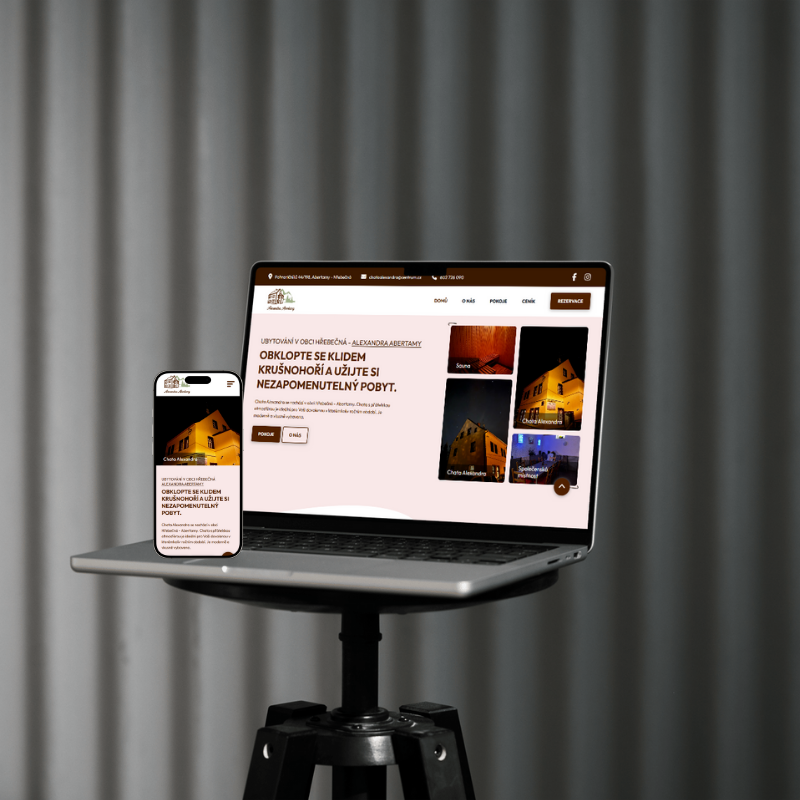
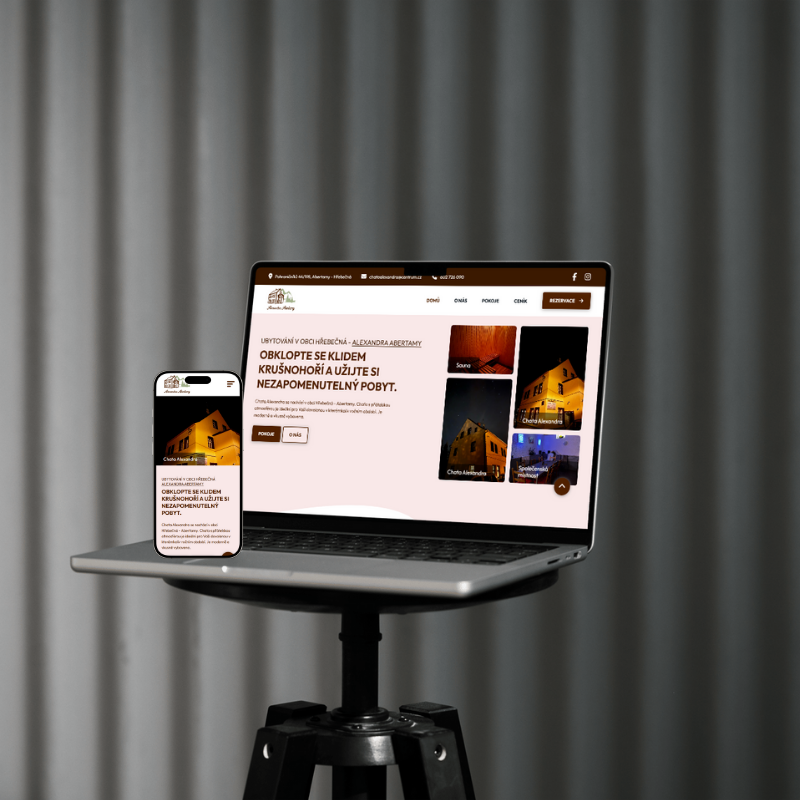
hotovo!!!

diff --git a/src/pages/index.html b/src/pages/index.html
@@ -73,16 +73,16 @@
                         </button>
                     </div>
                     <menu class="navbar-menu hamburger-nav hamburger-zone">
-                        <li class="navbar-menu-item navbar-menu-item-underline navbar-menu-item-underline-primary-color"><a class="navbar-menu-item-href navbar-menu-item-href-primary" href="#">Domů</a></li>
+                        <li class="navbar-menu-item navbar-menu-item-underline navbar-menu-item-underline-primary-color"><a class="navbar-menu-item-href navbar-menu-item-href-primary-color" href="#">Domů</a></li>
                         <li class="navbar-menu-item navbar-menu-item-underline"><a class="navbar-menu-item-href" href="#about-us">O nás</a></li>
                         <li class="navbar-menu-item navbar-menu-item-underline"><a class="navbar-menu-item-href" href="#rooms">Pokoje</a></li>
                         <li class="navbar-menu-item navbar-menu-item-underline"><a class="navbar-menu-item-href" href="#price-list">Ceník</a></li>
                         <li class="navbar-menu-item navbar-menu-item-reservation"><a class="navbar-menu-item-href button button-icon button-icon--arrow-right" href="#contact">Rezervace</a></li>
                         <li class="navbar-menu-item navbar-menu-item-no-desktop navbar-menu-item-location"><a class="navbar-menu-item-href navbar-menu-item-href-no-desktop" href="https://maps.app.goo.gl/YLNK6yYfZ5aMsEiY9">Pohraničníků 44/198, Abertamy - Hřebečná</a></li>
-                        <li class="navbar-menu-item navbar-menu-item-no-desktop navbar-menu-item-email"><a class="navbar-menu-item-href navbar-menu-item-href-no-desktop" href="mailto:chataalexandra@centrum.cz">chataalexandra@centrum.cz</a></li>
-                        <li class="navbar-menu-item navbar-menu-item-no-desktop navbar-menu-item-phone"><a class="navbar-menu-item-href navbar-menu-item-href-no-desktop" href="tel:+420602726090">602 726 090</a></li>
-                        <li class="navbar-menu-item navbar-menu-item-no-desktop navbar-menu-item-social navbar-menu-item-facebook"><a href="https://www.facebook.com/share/15izFVYbRi/?mibextid=wwXIfr" target="_blank" aria-label="Facebook"><svg class="svg-responsive" xmlns="http://www.w3.org/2000/svg" viewBox="0 0 640 640"><path d="M240 363.3L240 576L356 576L356 363.3L442.5 363.3L460.5 265.5L356 265.5L356 230.9C356 179.2 376.3 159.4 428.7 159.4C445 159.4 458.1 159.8 465.7 160.6L465.7 71.9C451.4 68 416.4 64 396.2 64C289.3 64 240 114.5 240 223.4L240 265.5L174 265.5L174 363.3L240 363.3z" fill="#512100"/></svg></a></li>
-                        <li class="navbar-menu-item navbar-menu-item-no-desktop navbar-menu-item-social navbar-menu-item-instagram"><a href="#" aria-label="Instagram"><svg class="svg-responsive" xmlns="http://www.w3.org/2000/svg" viewBox="0 0 640 640"><path d="M320.3 205C256.8 204.8 205.2 256.2 205 319.7C204.8 383.2 256.2 434.8 319.7 435C383.2 435.2 434.8 383.8 435 320.3C435.2 256.8 383.8 205.2 320.3 205zM319.7 245.4C360.9 245.2 394.4 278.5 394.6 319.7C394.8 360.9 361.5 394.4 320.3 394.6C279.1 394.8 245.6 361.5 245.4 320.3C245.2 279.1 278.5 245.6 319.7 245.4zM413.1 200.3C413.1 185.5 425.1 173.5 439.9 173.5C454.7 173.5 466.7 185.5 466.7 200.3C466.7 215.1 454.7 227.1 439.9 227.1C425.1 227.1 413.1 215.1 413.1 200.3zM542.8 227.5C541.1 191.6 532.9 159.8 506.6 133.6C480.4 107.4 448.6 99.2 412.7 97.4C375.7 95.3 264.8 95.3 227.8 97.4C192 99.1 160.2 107.3 133.9 133.5C107.6 159.7 99.5 191.5 97.7 227.4C95.6 264.4 95.6 375.3 97.7 412.3C99.4 448.2 107.6 480 133.9 506.2C160.2 532.4 191.9 540.6 227.8 542.4C264.8 544.5 375.7 544.5 412.7 542.4C448.6 540.7 480.4 532.5 506.6 506.2C532.8 480 541 448.2 542.8 412.3C544.9 375.3 544.9 264.5 542.8 227.5zM495 452C487.2 471.6 472.1 486.7 452.4 494.6C422.9 506.3 352.9 503.6 320.3 503.6C287.7 503.6 217.6 506.2 188.2 494.6C168.6 486.8 153.5 471.7 145.6 452C133.9 422.5 136.6 352.5 136.6 319.9C136.6 287.3 134 217.2 145.6 187.8C153.4 168.2 168.5 153.1 188.2 145.2C217.7 133.5 287.7 136.2 320.3 136.2C352.9 136.2 423 133.6 452.4 145.2C472 153 487.1 168.1 495 187.8C506.7 217.3 504 287.3 504 319.9C504 352.5 506.7 422.6 495 452z" fill="#512100"/></svg></a></li>
+                        <li class="navbar-menu-item navbar-menu-item-no-desktop"><a class="navbar-menu-item-href navbar-menu-item-href-no-desktop" href="mailto:chataalexandra@centrum.cz">chataalexandra@centrum.cz</a></li>
+                        <li class="navbar-menu-item navbar-menu-item-no-desktop"><a class="navbar-menu-item-href navbar-menu-item-href-no-desktop" href="tel:+420602726090">602 726 090</a></li>
+                        <li class="navbar-menu-item navbar-menu-item-no-desktop navbar-menu-item-social navbar-menu-item-facebook"><a href="https://www.facebook.com/share/15izFVYbRi/?mibextid=wwXIfr" target="_blank" aria-label="Facebook"><svg class="svg-responsive" xmlns="http://www.w3.org/2000/svg" viewBox="0 0 640 640"><path d="M240 363.3L240 576L356 576L356 363.3L442.5 363.3L460.5 265.5L356 265.5L356 230.9C356 179.2 376.3 159.4 428.7 159.4C445 159.4 458.1 159.8 465.7 160.6L465.7 71.9C451.4 68 416.4 64 396.2 64C289.3 64 240 114.5 240 223.4L240 265.5L174 265.5L174 363.3L240 363.3z" fill="#010B13"/></svg></a></li>
+                        <li class="navbar-menu-item navbar-menu-item-no-desktop navbar-menu-item-social navbar-menu-item-instagram"><a href="#" aria-label="Instagram"><svg class="svg-responsive" xmlns="http://www.w3.org/2000/svg" viewBox="0 0 640 640"><path d="M320.3 205C256.8 204.8 205.2 256.2 205 319.7C204.8 383.2 256.2 434.8 319.7 435C383.2 435.2 434.8 383.8 435 320.3C435.2 256.8 383.8 205.2 320.3 205zM319.7 245.4C360.9 245.2 394.4 278.5 394.6 319.7C394.8 360.9 361.5 394.4 320.3 394.6C279.1 394.8 245.6 361.5 245.4 320.3C245.2 279.1 278.5 245.6 319.7 245.4zM413.1 200.3C413.1 185.5 425.1 173.5 439.9 173.5C454.7 173.5 466.7 185.5 466.7 200.3C466.7 215.1 454.7 227.1 439.9 227.1C425.1 227.1 413.1 215.1 413.1 200.3zM542.8 227.5C541.1 191.6 532.9 159.8 506.6 133.6C480.4 107.4 448.6 99.2 412.7 97.4C375.7 95.3 264.8 95.3 227.8 97.4C192 99.1 160.2 107.3 133.9 133.5C107.6 159.7 99.5 191.5 97.7 227.4C95.6 264.4 95.6 375.3 97.7 412.3C99.4 448.2 107.6 480 133.9 506.2C160.2 532.4 191.9 540.6 227.8 542.4C264.8 544.5 375.7 544.5 412.7 542.4C448.6 540.7 480.4 532.5 506.6 506.2C532.8 480 541 448.2 542.8 412.3C544.9 375.3 544.9 264.5 542.8 227.5zM495 452C487.2 471.6 472.1 486.7 452.4 494.6C422.9 506.3 352.9 503.6 320.3 503.6C287.7 503.6 217.6 506.2 188.2 494.6C168.6 486.8 153.5 471.7 145.6 452C133.9 422.5 136.6 352.5 136.6 319.9C136.6 287.3 134 217.2 145.6 187.8C153.4 168.2 168.5 153.1 188.2 145.2C217.7 133.5 287.7 136.2 320.3 136.2C352.9 136.2 423 133.6 452.4 145.2C472 153 487.1 168.1 495 187.8C506.7 217.3 504 287.3 504 319.9C504 352.5 506.7 422.6 495 452z" fill="#010B13"/></svg></a></li>
                     </menu>
                 </nav>
             </header>

diff --git a/src/pages/privacy-policy.html b/src/pages/privacy-policy.html
@@ -75,8 +75,8 @@
                         <li class="navbar-menu-item navbar-menu-item-underline"><a class="navbar-menu-item-href" href="index.html#price-list">Ceník</a></li>
                         <li class="navbar-menu-item navbar-menu-item-reservation"><a class="navbar-menu-item-href button button-icon button-icon--arrow-right" href="index.html#contact">Rezervace</a></li>
                         <li class="navbar-menu-item navbar-menu-item-no-desktop navbar-menu-item-location"><a class="navbar-menu-item-href navbar-menu-item-href-no-desktop" href="https://maps.app.goo.gl/YLNK6yYfZ5aMsEiY9">Pohraničníků 44/198, Abertamy - Hřebečná</a></li>
-                        <li class="navbar-menu-item navbar-menu-item-no-desktop navbar-menu-item-email"><a class="navbar-menu-item-href navbar-menu-item-href-no-desktop" href="mailto:chataalexandra@centrum.cz">chataalexandra@centrum.cz</a></li>
-                        <li class="navbar-menu-item navbar-menu-item-no-desktop navbar-menu-item-phone"><a class="navbar-menu-item-href navbar-menu-item-href-no-desktop" href="tel:+420602726090">602 726 090</a></li>
+                        <li class="navbar-menu-item navbar-menu-item-no-desktop"><a class="navbar-menu-item-href navbar-menu-item-href-no-desktop" href="mailto:chataalexandra@centrum.cz">chataalexandra@centrum.cz</a></li>
+                        <li class="navbar-menu-item navbar-menu-item-no-desktop"><a class="navbar-menu-item-href navbar-menu-item-href-no-desktop" href="tel:+420602726090">602 726 090</a></li>
                         <li class="navbar-menu-item navbar-menu-item-no-desktop navbar-menu-item-social navbar-menu-item-facebook"><a href="https://www.facebook.com/share/15izFVYbRi/?mibextid=wwXIfr" target="_blank" aria-label="Facebook"><svg class="svg-responsive" xmlns="http://www.w3.org/2000/svg" viewBox="0 0 640 640"><path d="M240 363.3L240 576L356 576L356 363.3L442.5 363.3L460.5 265.5L356 265.5L356 230.9C356 179.2 376.3 159.4 428.7 159.4C445 159.4 458.1 159.8 465.7 160.6L465.7 71.9C451.4 68 416.4 64 396.2 64C289.3 64 240 114.5 240 223.4L240 265.5L174 265.5L174 363.3L240 363.3z" fill="#512100"/></svg></a></li>
                         <li class="navbar-menu-item navbar-menu-item-no-desktop navbar-menu-item-social navbar-menu-item-instagram"><a href="#" aria-label="Instagram"><svg class="svg-responsive" xmlns="http://www.w3.org/2000/svg" viewBox="0 0 640 640"><path d="M320.3 205C256.8 204.8 205.2 256.2 205 319.7C204.8 383.2 256.2 434.8 319.7 435C383.2 435.2 434.8 383.8 435 320.3C435.2 256.8 383.8 205.2 320.3 205zM319.7 245.4C360.9 245.2 394.4 278.5 394.6 319.7C394.8 360.9 361.5 394.4 320.3 394.6C279.1 394.8 245.6 361.5 245.4 320.3C245.2 279.1 278.5 245.6 319.7 245.4zM413.1 200.3C413.1 185.5 425.1 173.5 439.9 173.5C454.7 173.5 466.7 185.5 466.7 200.3C466.7 215.1 454.7 227.1 439.9 227.1C425.1 227.1 413.1 215.1 413.1 200.3zM542.8 227.5C541.1 191.6 532.9 159.8 506.6 133.6C480.4 107.4 448.6 99.2 412.7 97.4C375.7 95.3 264.8 95.3 227.8 97.4C192 99.1 160.2 107.3 133.9 133.5C107.6 159.7 99.5 191.5 97.7 227.4C95.6 264.4 95.6 375.3 97.7 412.3C99.4 448.2 107.6 480 133.9 506.2C160.2 532.4 191.9 540.6 227.8 542.4C264.8 544.5 375.7 544.5 412.7 542.4C448.6 540.7 480.4 532.5 506.6 506.2C532.8 480 541 448.2 542.8 412.3C544.9 375.3 544.9 264.5 542.8 227.5zM495 452C487.2 471.6 472.1 486.7 452.4 494.6C422.9 506.3 352.9 503.6 320.3 503.6C287.7 503.6 217.6 506.2 188.2 494.6C168.6 486.8 153.5 471.7 145.6 452C133.9 422.5 136.6 352.5 136.6 319.9C136.6 287.3 134 217.2 145.6 187.8C153.4 168.2 168.5 153.1 188.2 145.2C217.7 133.5 287.7 136.2 320.3 136.2C352.9 136.2 423 133.6 452.4 145.2C472 153 487.1 168.1 495 187.8C506.7 217.3 504 287.3 504 319.9C504 352.5 506.7 422.6 495 452z" fill="#512100"/></svg></a></li>
                     </menu>

diff --git a/src/styles/layout.css b/src/styles/layout.css
@@ -140,11 +140,14 @@
 
 .navbar-menu {
     position: fixed;
+    top: 0;
+    bottom: 0;
+    left: 0;
+    width: 100%;
     display: grid;
     justify-items: center;
     align-content: end;
     grid-template-columns: repeat(2, 1fr);
-    grid-template-rows: repeat(11, minmax(auto, 35px));
     list-style: none;
     gap: 1.5rem;
 }
@@ -191,21 +194,20 @@
 .navbar-menu-item-href {
     text-decoration: none;
     font-size: 1.5rem;
-    color: var(--primary, #512100);
+    color: var(--black, #010B13);
     text-transform: uppercase;
     font-weight: 700;
     padding: 1rem;
 }
 
+.navbar-menu-item-href-primary-color {
+    color: var(--primary, #512100);
+}
+
 @media screen and (min-width: 961px) {
     .navbar-menu-item-href {
-        color: var(--black, #010B13);
         font-size: 1rem;
         padding: 0;
-    }
-
-    .navbar-menu-item-href-primary {
-        color: var(--primary, #512100);
     }
 
     .navbar-menu-item-reservation {
@@ -229,30 +231,11 @@
     font-size: 1.25rem;
     text-decoration: underline;
     text-underline-offset: 3px;
-    text-decoration-color: rgba(81, 33, 0, 0.75);
-}
-
-.navbar-menu-item-location {
-    grid-row: 7;
-    margin-bottom: 3.5rem;
-}
-
-@media screen and (min-width: 411px) {
-    .navbar-menu-item-location {
-        margin-bottom: 0;
-    }
+    text-decoration-color: rgba(1, 11, 19, 0.75);
 }
 
 .navbar-menu-item-location::first-letter {
     text-transform: uppercase;
-}
-
-.navbar-menu-item-email {
-    grid-row: 8;
-}
-
-.navbar-menu-item-phone {
-    grid-row: 9;
 }
 
 .navbar-menu-item-facebook {

diff --git a/src/scripts/animations.js b/src/scripts/animations.js
@@ -13,6 +13,7 @@ ScrollSmoother.create({
 //ScrollToPlugin
 document.querySelectorAll('a[href*="#"]').forEach(anchor => {
   anchor.addEventListener('click', function (e) {
+    if (this.classList.contains('button--up-link')) return;
     e.preventDefault();
     const href = this.getAttribute('href');
     const url = new URL(href, window.location.origin);
